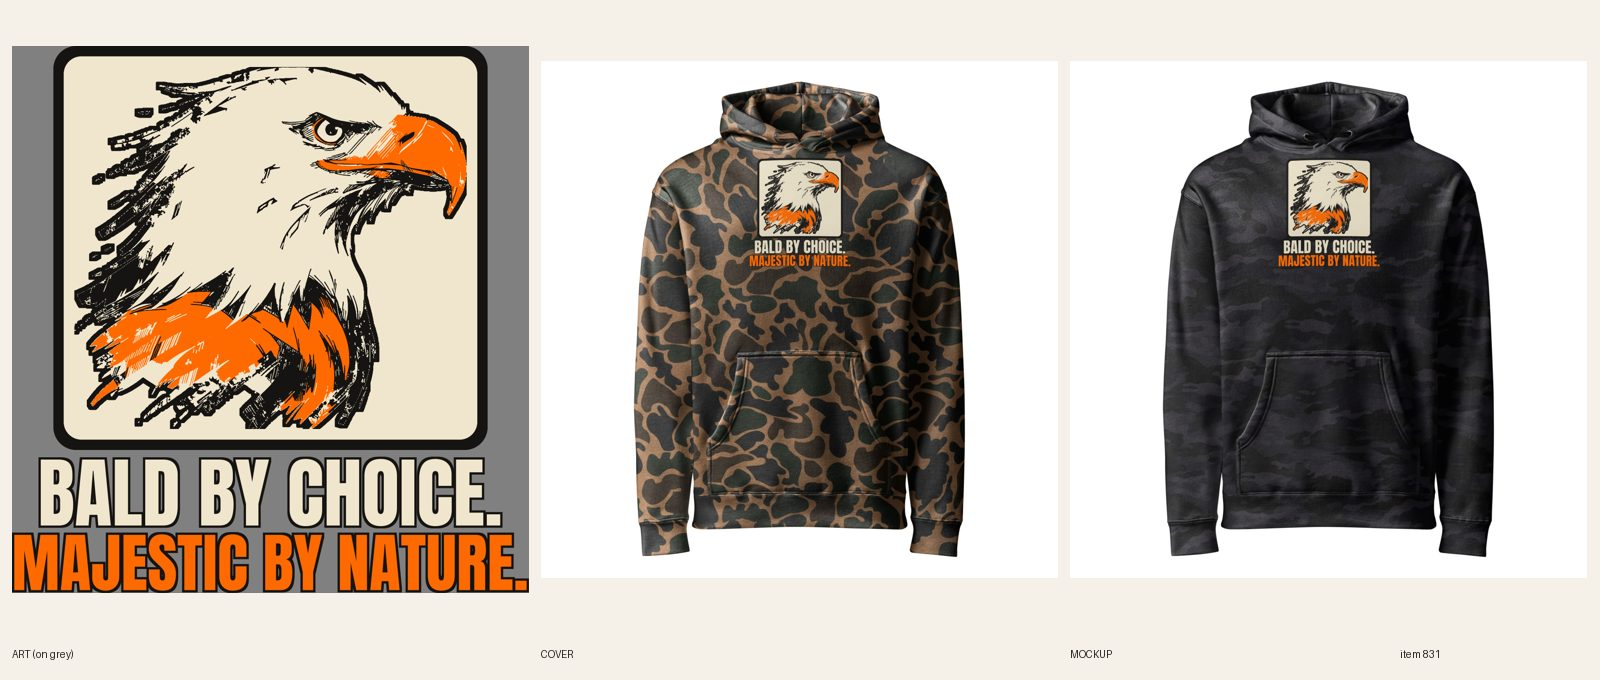
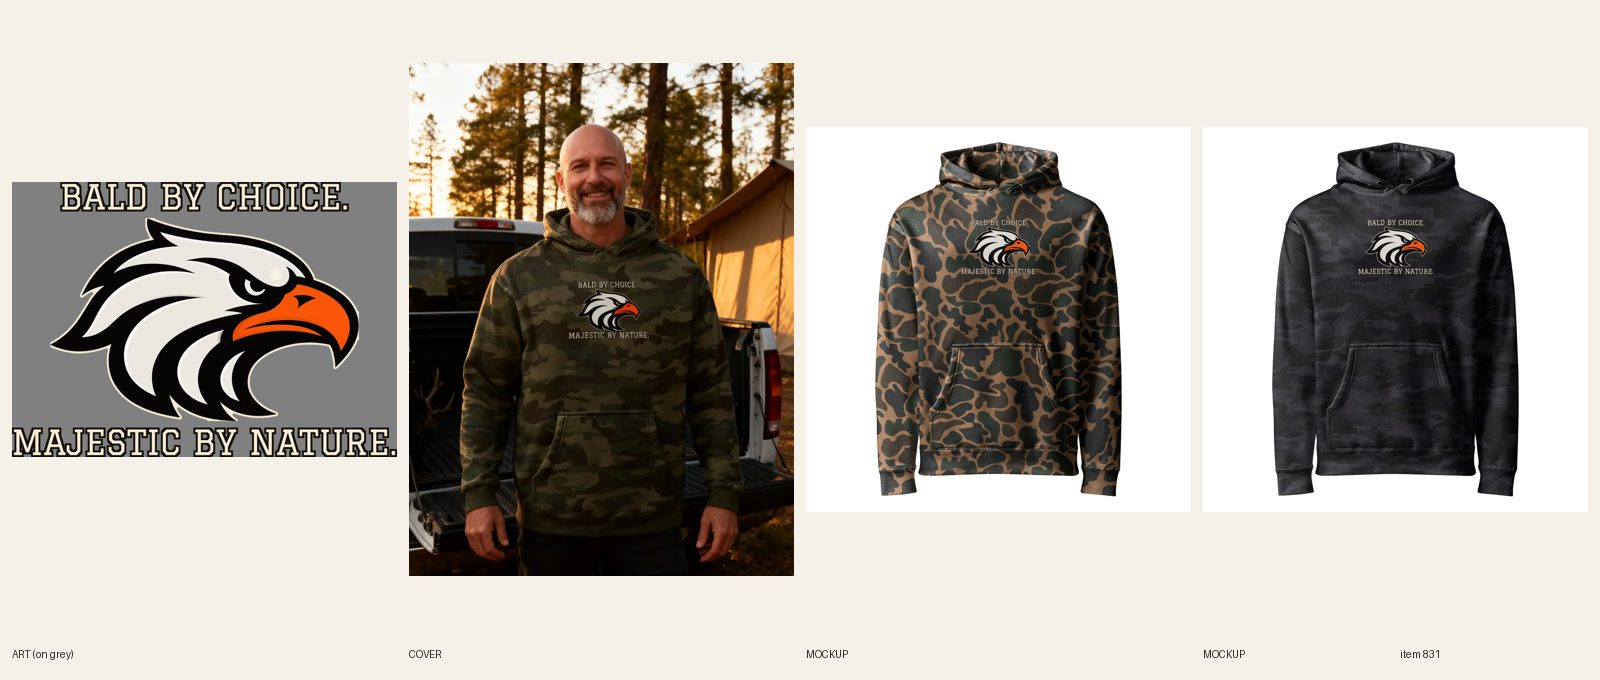
[B] review 831 camo redo 15 (eagle varsity print, lifestyle photos); run end, release lock

diff --git a/src/data/covers.ts b/src/data/covers.ts
@@ -666,7 +666,7 @@ export const covers: Record<string, { src: string; alt: string }> = {
   'unisex-essentials-charcoal-zip-hoodie': { src: '/covers/unisex-essentials-charcoal-zip-hoodie.webp', alt: 'Woman in her early 30s with a long low ponytail walking into a rainy city park with a closed umbrella at her side, wearing a charcoal heather zip hoodie with a small orange Graphic Tees script stitched on the left chest' },
   'mens-hunting-opening-day-zip-hoodie': { src: '/covers/mens-hunting-opening-day-zip-hoodie.webp', alt: 'Man in his mid 50s with long grey hair under a beanie seen from behind walking across a frosty field at dawn with a thermos, wearing an ash zip hoodie printed on the back with Took the Day Off. The Deer Did Too. and a buck in a camp chair' },
   'mens-outdoors-sasquatch-camera-shy-camo-hoodie': { src: '/covers/mens-outdoors-sasquatch-camera-shy-camo-hoodie.webp', alt: 'Man in a Forest Camo Camera Shy Sasquatch hoodie on a misty pine trail at first light, painted Bigfoot print centered on the chest' },
-  'mens-eagle-bald-by-choice-camo-hoodie': { src: '/covers/mens-eagle-bald-by-choice-camo-hoodie.webp', alt: 'Bald man with a grey goatee smiling at the open tailgate of a pickup at a pine-woods deer camp at golden hour in a Forest Camo Bald by Choice eagle hoodie with the eagle print centered on the chest' },
+  'mens-eagle-bald-by-choice-camo-hoodie': { src: '/covers/mens-eagle-bald-by-choice-camo-hoodie.webp', alt: 'Man with a bald head and a grey goatee smiling at the open tailgate of a pickup at a pine-woods deer camp at golden hour in a Forest Camo Bald by Choice eagle hoodie with the eagle print centered on the chest' },
 };
 
 // Pasted-print covers retired by R6.10 (Sam 2026-10-18): these fall back to the clean Printful mockup until a

diff --git a/docs/intake-log.md b/docs/intake-log.md
@@ -1,5 +1,5 @@
-RUNNING lane B since 2026-10-26 17:28 UTC
-2026-10-26 17:33 UTC — [B] REVIEW #304 cover-only REDO: no-cup park-bench cover (2 calls), Shopify image 1 replaced; print unchanged. Product ACTIVE, director to confirm.
+2026-10-26 17:43 UTC — [B] Builder run end: 2 items, #304 cover-only REDO (no-cup park-bench cover) and camo redo #15 #831 (varsity eagle, A+); both ACTIVE, director to confirm. New products today: 0 of 6. fal ~$0.9. Lock released.
+2026-10-26 17:43 UTC — [B] REVIEW #831 Men's Eagle – Bald by Choice. Majestic by Nature. Camo Hoodie (camo-redo 15 of 27, S6 on A+, FW1500 TOP400, 18/18 on 1095612999, headline 2243 / punch 2993 px, subject 80%, cap 230 px, Graduate; 2 lifestyle photos). Product ACTIVE, director to confirm.
 2026-10-26 14:46 UTC — [H] Helper run: Telegram inbox empty (getUpdates returned 0 updates; no pause, resume or TikTok links; nothing to consume). Shopify: 0 orders since 2026-10-25 14:42 UTC, so no order alert and no Printful hold check. Audit 738 live products: 7 ERRORs, all visual (unisex product on women's/men's grids with a wrong-person cover, same list as before), 169 warnings left alone; no scripted fixes; no price errors. npm ci first (esbuild was missing). Committed docs/cohesion-audit.md and .json. Category check: 0 products without a Shopify category (no mutation). Site check: the six newest LIVE zip and hoodie products (#913, #919, #945, #937, #812, #648) all 200. Stuck work: no item in BUILDING status; no lane lock held. Daily summary not sent by me: the director already sent today's digest (14:50 entry). Lock released.
 2026-10-26 14:50 UTC — [D] Director run: inbox nothing new. Reviewed 4 camo redo sheets (in place, already ACTIVE, not new products): #496 Not Lost. Scouting. (S7 on A+), #224 Quack of Dawn (S1 on B3) and #302 Antler Envy (S2 on A+, copied to reference/best) LIVE, audit --handle PASS 0 warn; #496 copy fix (Story named a map that is not in the art, R8.3). #304 possum REDO for its cover only (R6.8: the coffee cup shows a siren-style logo). 6 new LIVE (Oct 26 Chicago day, cap reached; men's zips for mens zip up hoodie, women's dog, dad heavyweight): #913 Lone Wolf zip, #919 Not Stopping zip, #945 Camera Shy zip, #937 Neighbors Love Me zip, #812 cavalier Technically Royalty hoodie, #648 Finisher heavyweight; all ACTIVE + Online Store, Headless, Google & YouTube, audit --handle PASS (1 warn: no lifestyle cover), pages 200. Articles #997 christmas-gifts-for-sister (14,800 / KD 10) and #998 christmas-gifts-for-coworkers (9,900 / KD 12) approved and live (#998 answer fixed: it said all picks were tees). Monday R9/R10 check: no new Google or Merchant Center change since July; note added to R9. No new briefs: 56 READY, over the 6-12 target. Telegram: digest sent (all links 200). Lock released.
 2026-10-26 14:05 UTC — [B] Builder run end: 2 items, camo redo #13 #302 (field-guide buck, A+) and #14 #304 (sketchbook possum, B3); both ACTIVE, director to confirm. New products today: 0 of 6. fal ~$0.6. Lock released.

diff --git a/docs/pipeline/831-mens-eagle-bald-by-choice-camo.md b/docs/pipeline/831-mens-eagle-bald-by-choice-camo.md
@@ -1,4 +1,4 @@
-status: BUILDING B 2026-10-26 17:34
+status: REVIEW
 lane: B
 type: twin
 id: 831
@@ -30,3 +30,4 @@ push: camo
 - 2026-10-21 09:40 UTC director: LIVE: ACTIVE + Online Store, Headless, Google & YouTube; audit --handle PASS (1 warn: no lifestyle cover, fal empty). Spoke tags added: duck-camo-hoodies + black-camo-hoodies. Side by side with 493 Calm Face and 483 Sisyphus: bald eagle on one bone patch, MAJESTIC BY NATURE. the widest line in blaze, reads on Duck and Black Camo; the 444 line it twins was already A.
 - 2026-10-22 22:00 UTC Claude (Sam): REDO, camo redo #15 of 27, style S6. New art in its own style, no box, no condensed sans, placement per docs/backlog/camo-redo.md (never TOP 0). Redo in place.
 - 2026-10-22 22:40 UTC Claude (Sam): placement A/B test, this item is A+ (center 10 in, tag placement-a).
+- 2026-10-26 17:42 UTC [B]: camo-redo #15 (S6 varsity on A+, tag placement-a), in place on product 15371560059184. New art: 1 Recraft call (3-ink varsity eagle mascot, no lettering), cream halo, no box; BALD BY CHOICE. above and MAJESTIC BY NATURE. below in Graduate (lane B last 5 faces: Damion, Cinzel, Bowlby, Alfa, Playfair), cream with dark keyline. headline 2243 / punch 2993 px (punch 133% of headline), subject 2400 of 2993 px = 80%, cap 230 px at file width 2993 (FW1500 = 115 px). Print 2993 x 2141, FW1500 TOP400 (h 1073, TOP+h 1473 <= 2100). R7.7: Forest, Duck, Black x S-3XL = 18/18 on file 1095612999, back logo 1080398177. Front mockups replaced in place (old fronts deleted, variants relinked per color), copy, SEO, FAQ (5 x 45-56 words), placement-a tag rewritten; title unchanged. Lifestyle: registry 1160 + 1161 (new rows), 1 seedream call each kept (tailgate cover on Forest, lake dock on Duck; lettering legible, nothing over print), covers.ts entry added, handle removed from retired-covers. Audit PASS 0 warn. Sheet docs/review/831.jpg. Product is ACTIVE: director to confirm. fal ~$0.2.
